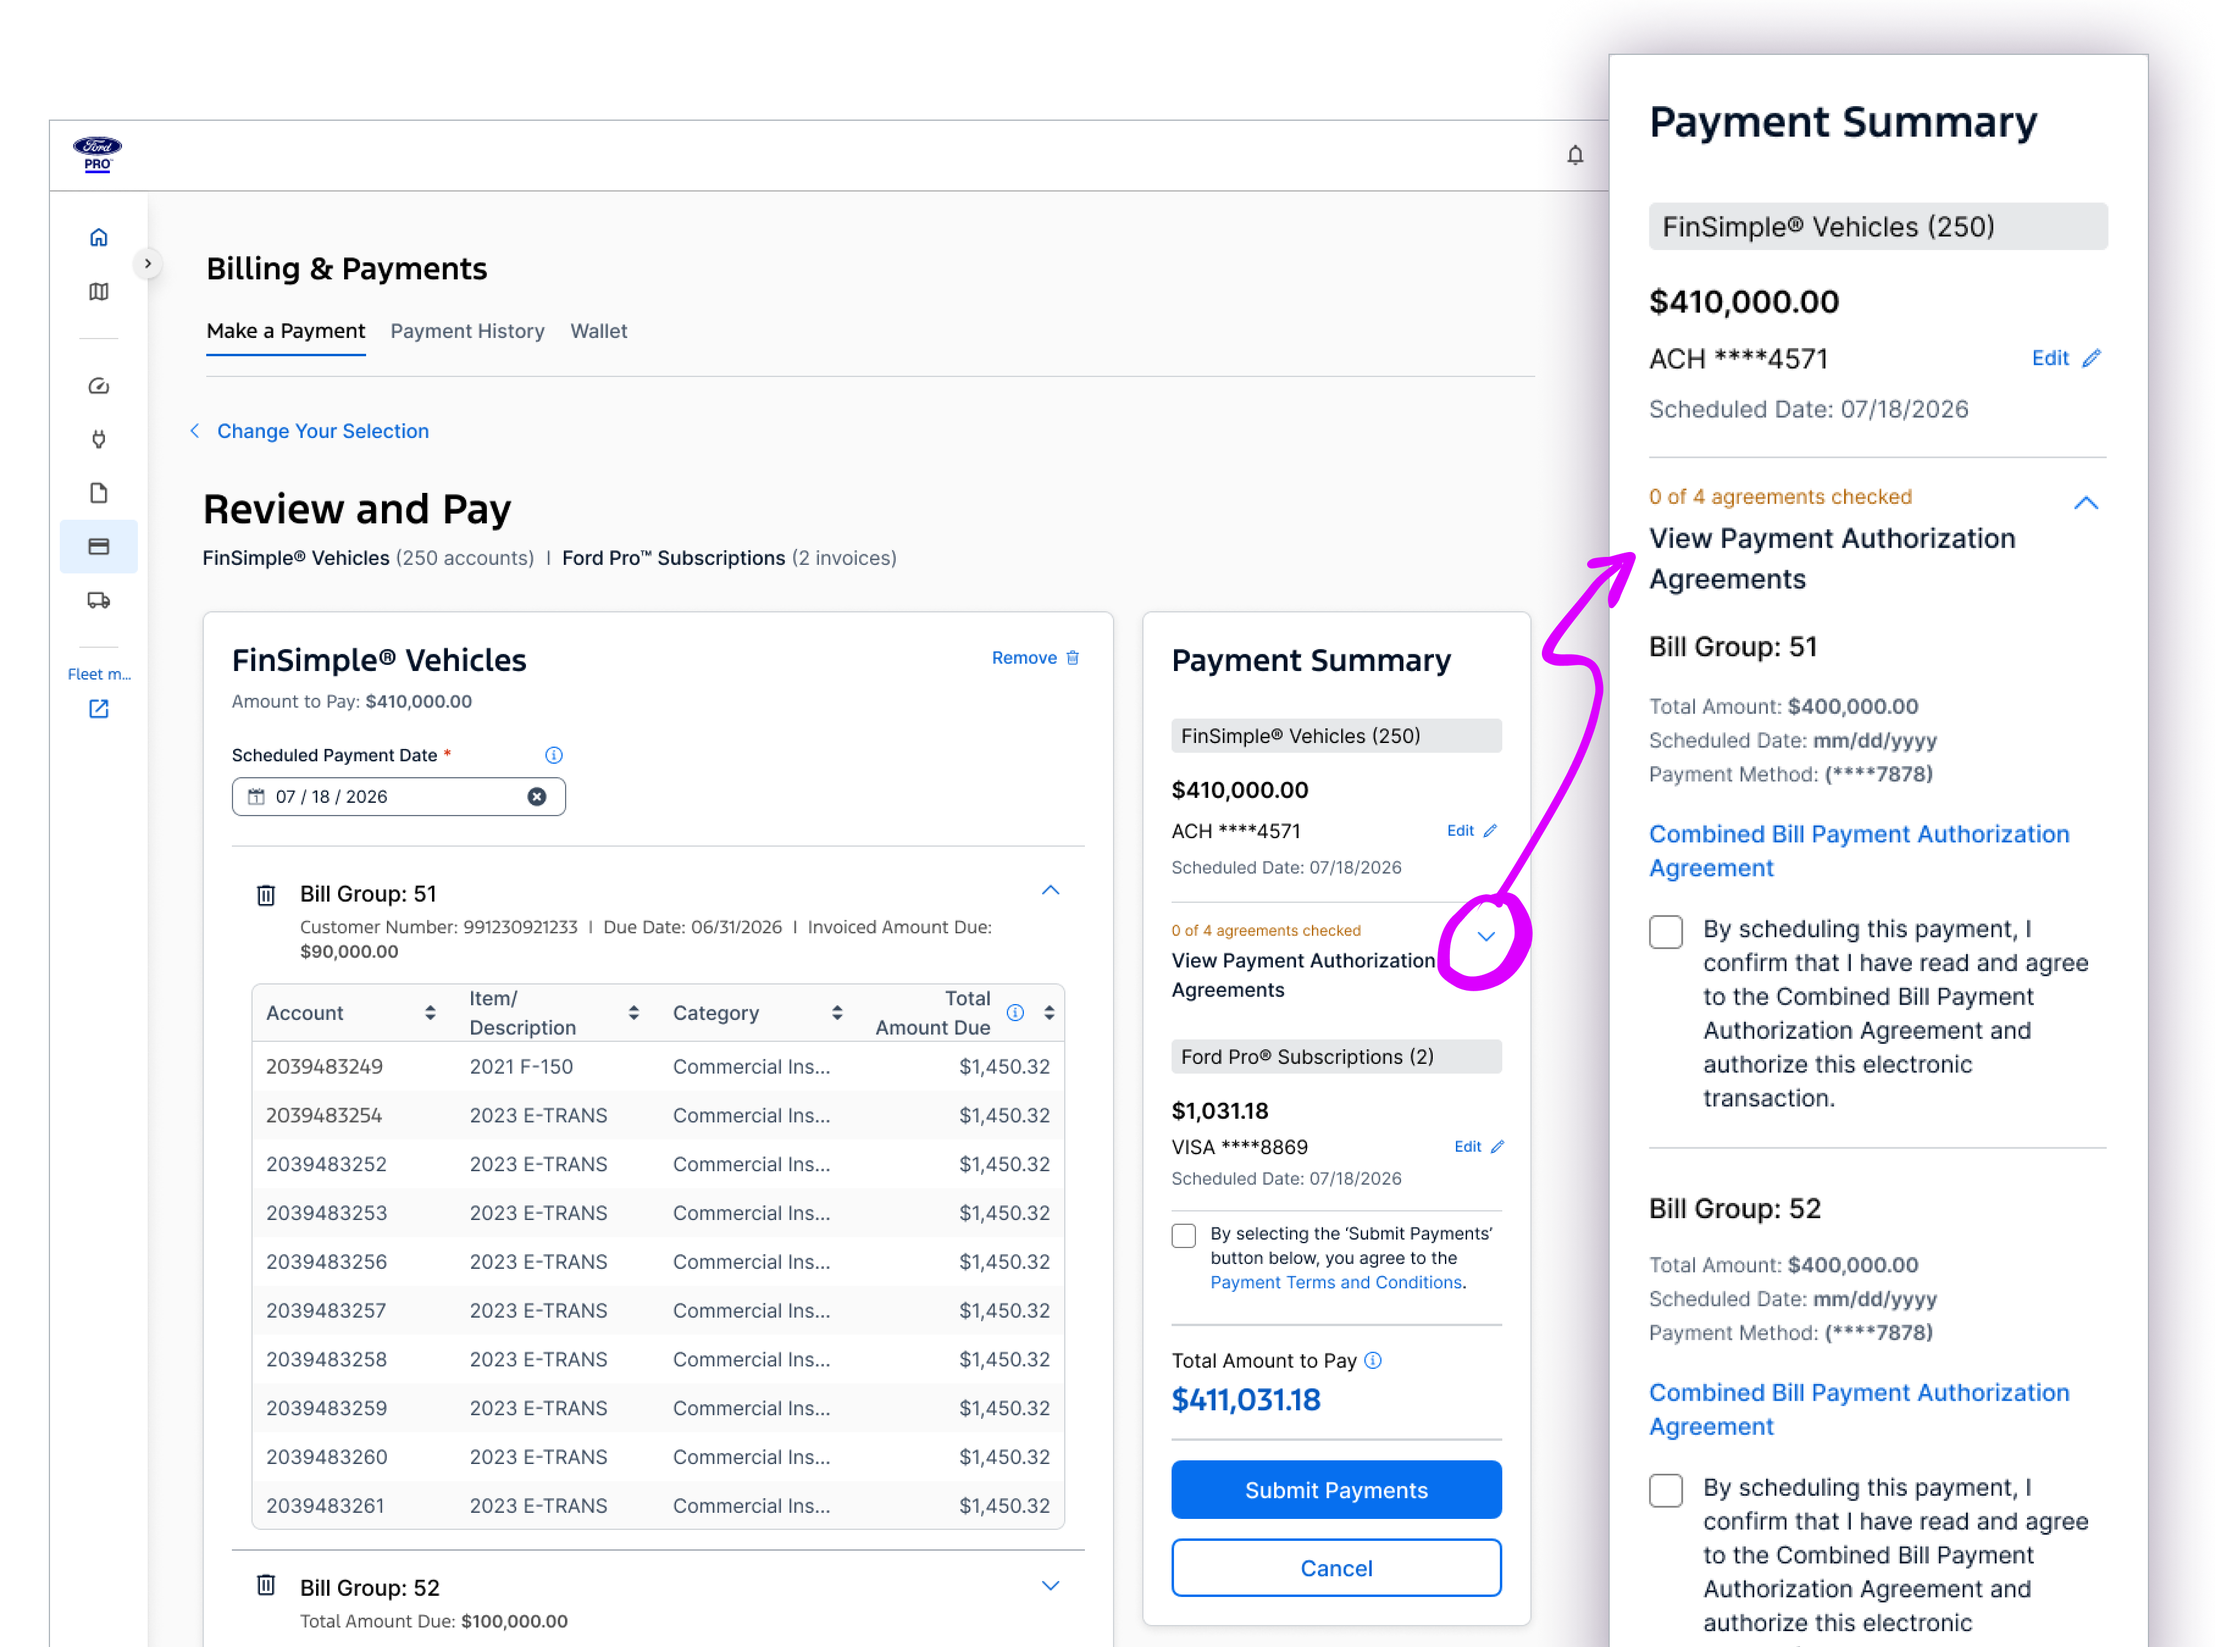
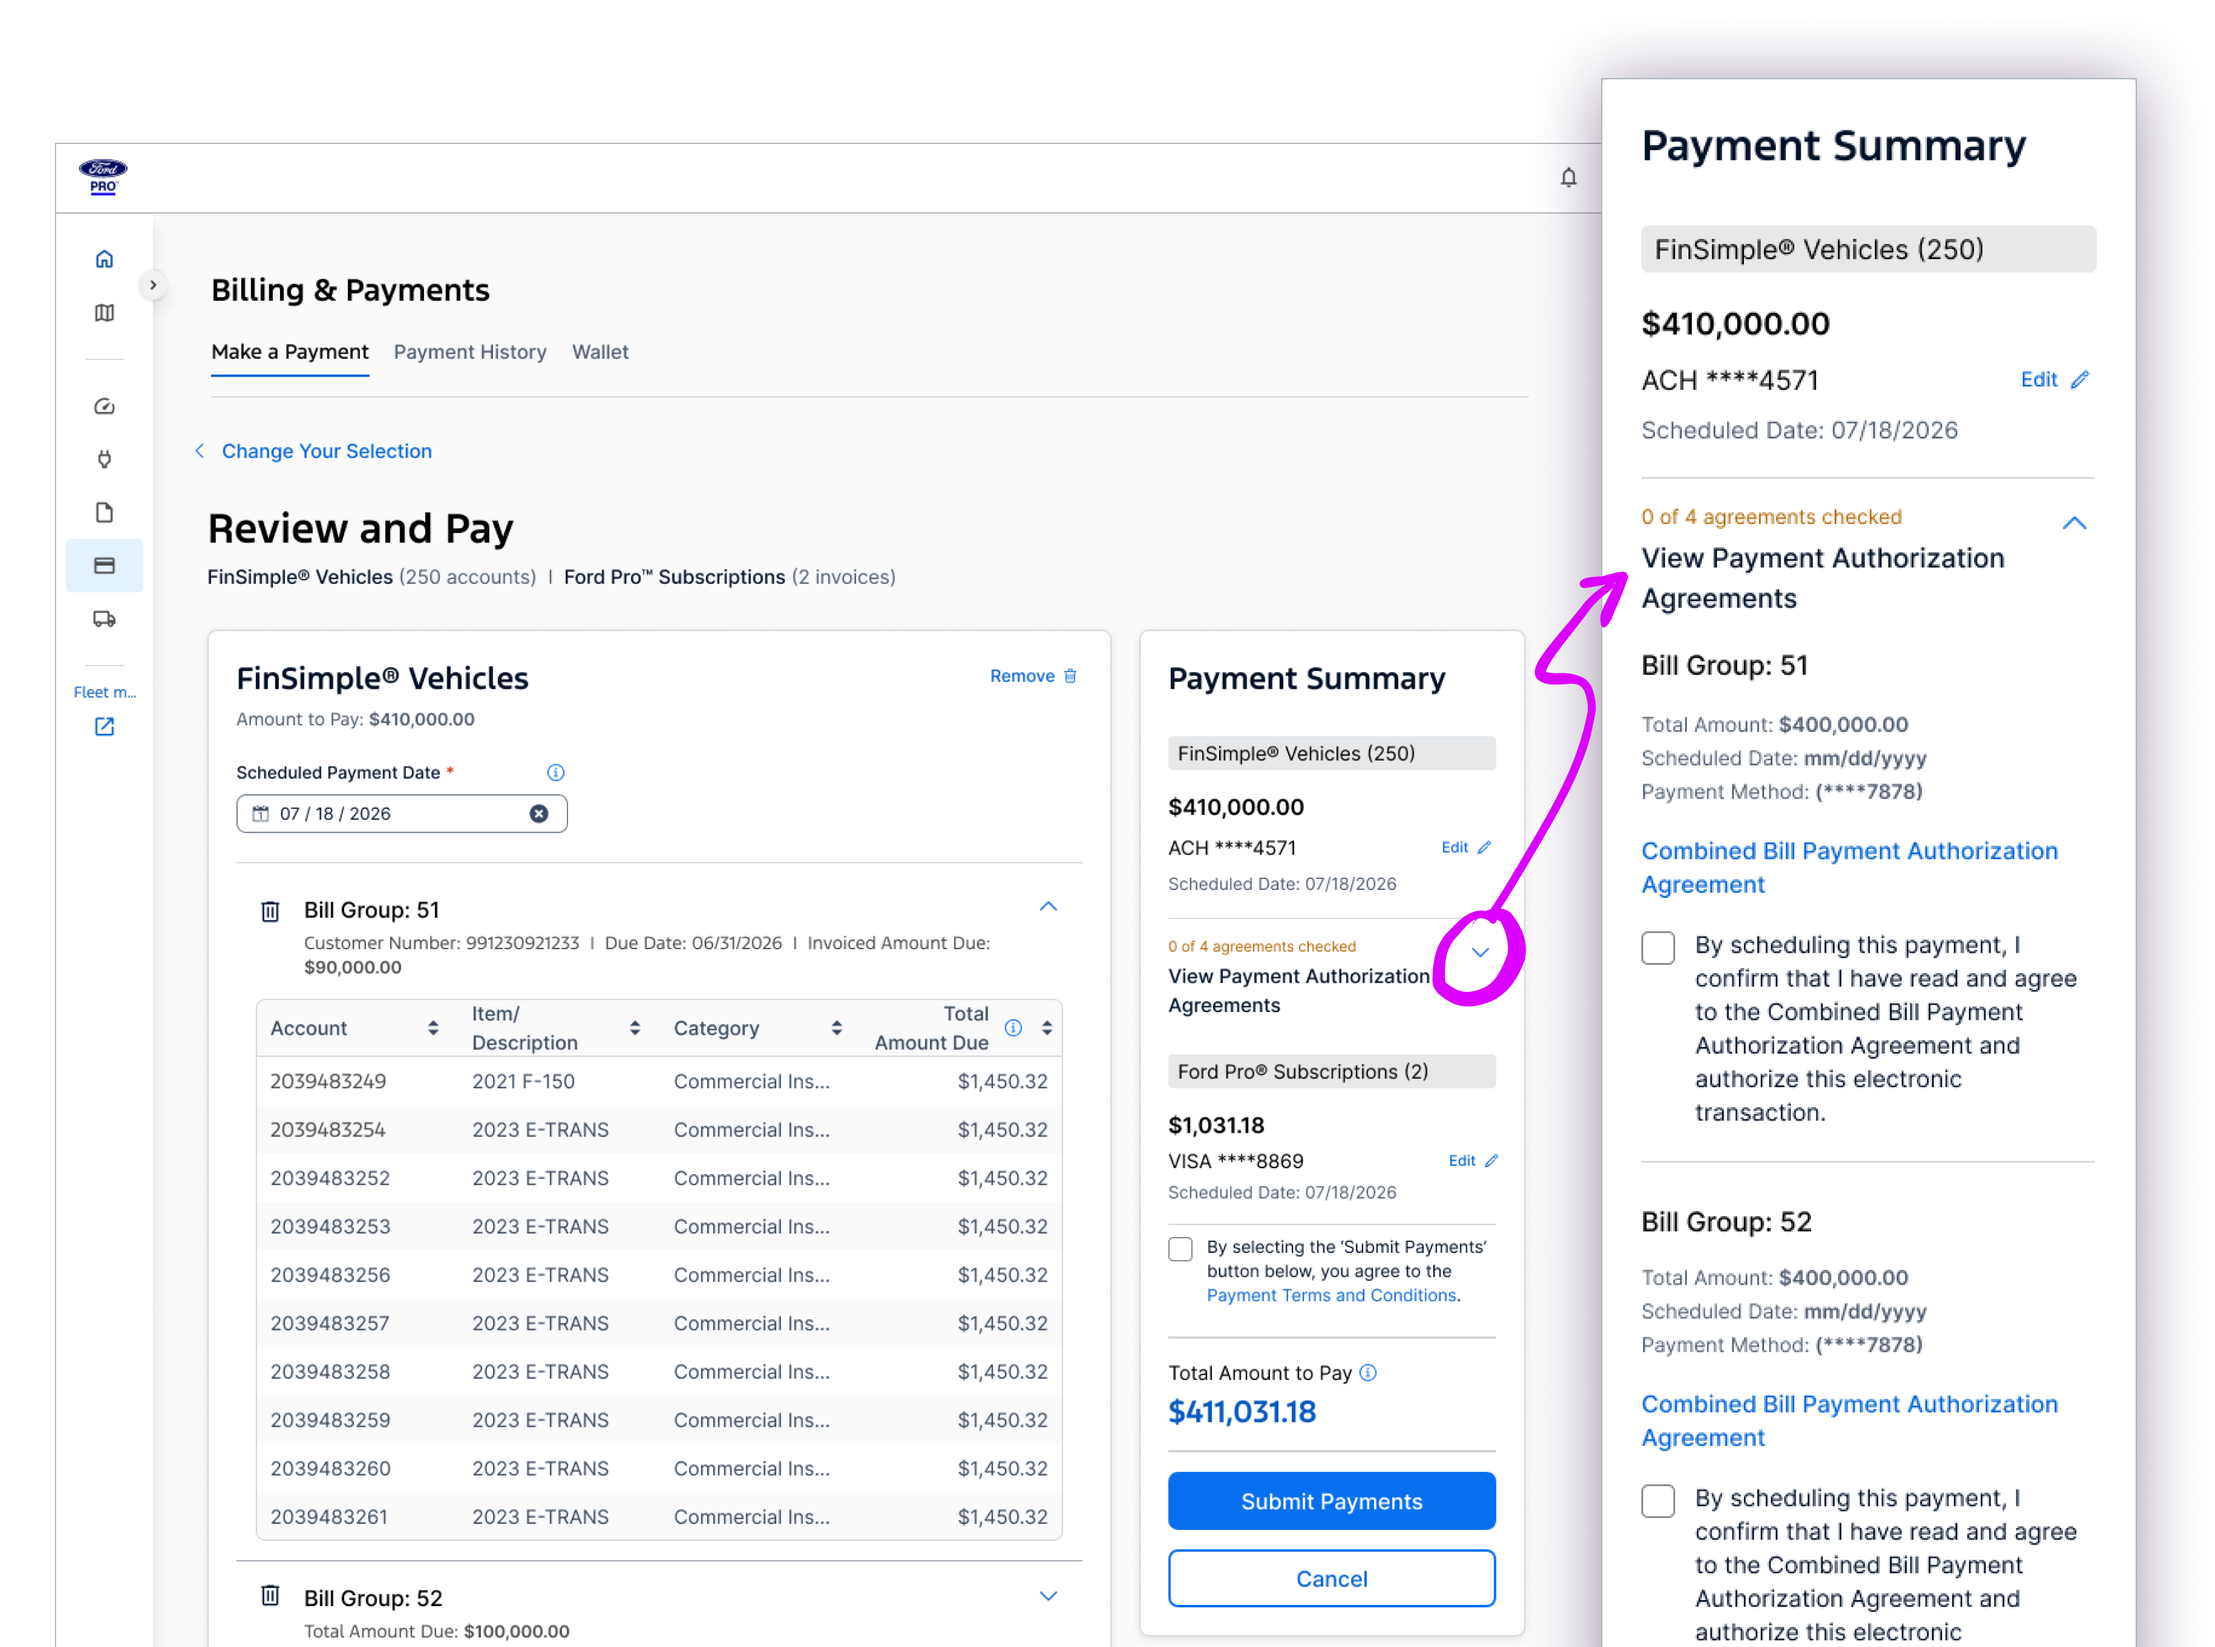
updated ford pro annotation card and recommendation images

diff --git a/app/projects/fordpro/page.tsx b/app/projects/fordpro/page.tsx
@@ -173,7 +173,7 @@ export default function FordProPage() {
         </section>
 
         <div className="flex flex-col pb-12 md:pb-24 lg:pb-24 max-w-[980px] mx-auto">
-          <div className="relative w-full">
+          <div className="relative w-full pb-4 md:pb-4">
             <Image
               src="/images/fordpro/groups.png"
               alt="Existing Ford Pro grouping functionality referenced to align the new payments experience with established patterns."
@@ -181,11 +181,11 @@ export default function FordProPage() {
               height={900}
               className="object-cover rounded"
             />
-            <div className="absolute left-4 right-4 bottom-4 md:left-auto md:right-8 md:bottom-8 md:max-w-[400px] border border-neutral-light border-l-4 border-l-purple-mid bg-white/98 px-5 py-5 md:px-6 md:py-6 backdrop-blur-[2px] shadow-[0_12px_32px_rgba(42,45,49,0.16)]">
+            <div className="absolute left-4 right-4 -bottom-4 md:left-auto md:right-8 md:-bottom-4 md:max-w-[400px] rounded-2xl bg-white/98 px-8 pt-8 pb-10 md:px-8 md:pt-8 md:pb-10 backdrop-blur-[2px] shadow-[0_12px_32px_rgba(42,45,49,0.16)]">
               <p className="h5-bold text-purple-dark mb-2">Reducing siloed solutions</p>
               <p className="body-sm text-neutral-dark">
-                Ideally, Ford Credit would integrate with the existing Ford Pro grouping
-                functionality. This way, users could set up groups once and use them to pay for the
+                Ideally, Ford Credit would integrate with this existing Ford Pro grouping
+                functionality so that users could set up groups once and use them to pay for the
                 vehicles and equipment added to each group.
               </p>
             </div>
@@ -237,7 +237,7 @@ export default function FordProPage() {
           </div>
         </section>
 
-        <div className="flex flex-col gap-16 pb-24 max-w-[980px] mx-auto">
+        <div className="flex flex-col gap-16 pb-24 max-w-[1240px] mx-auto">
           <TwoImageGroup
             borderless
             images={[
